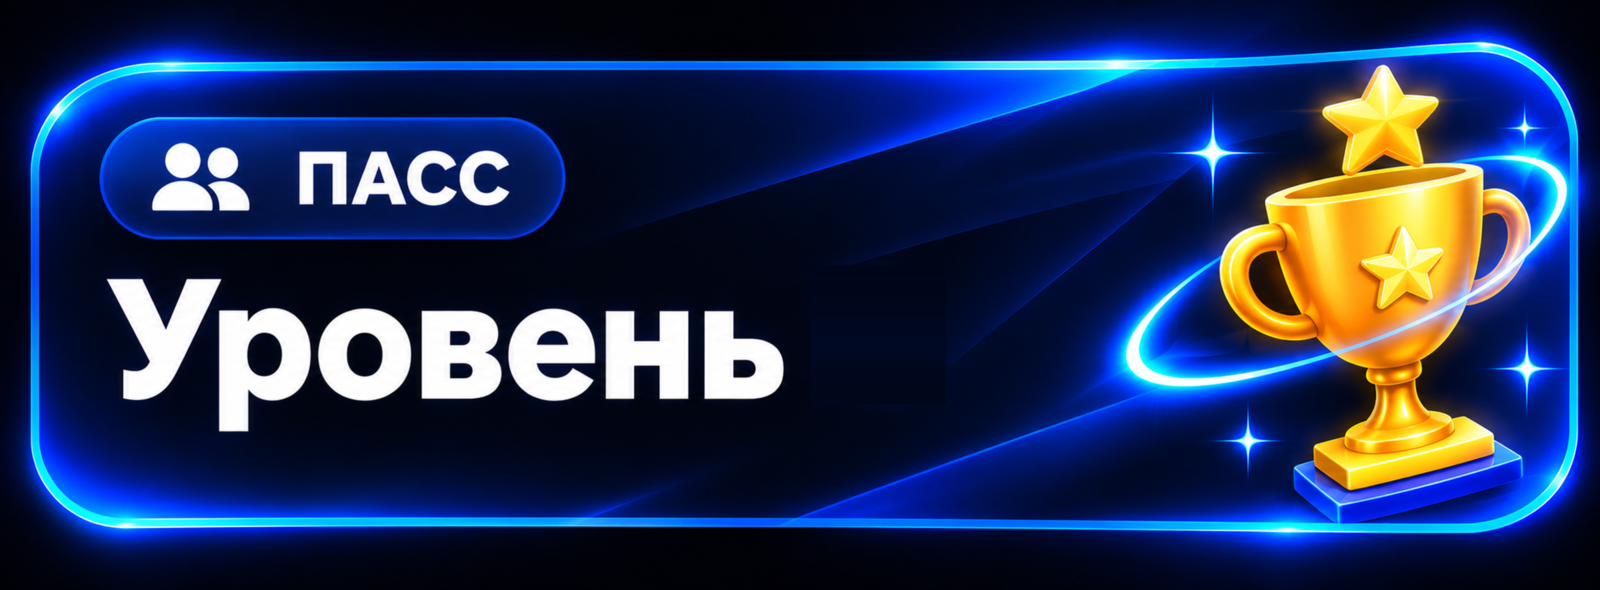
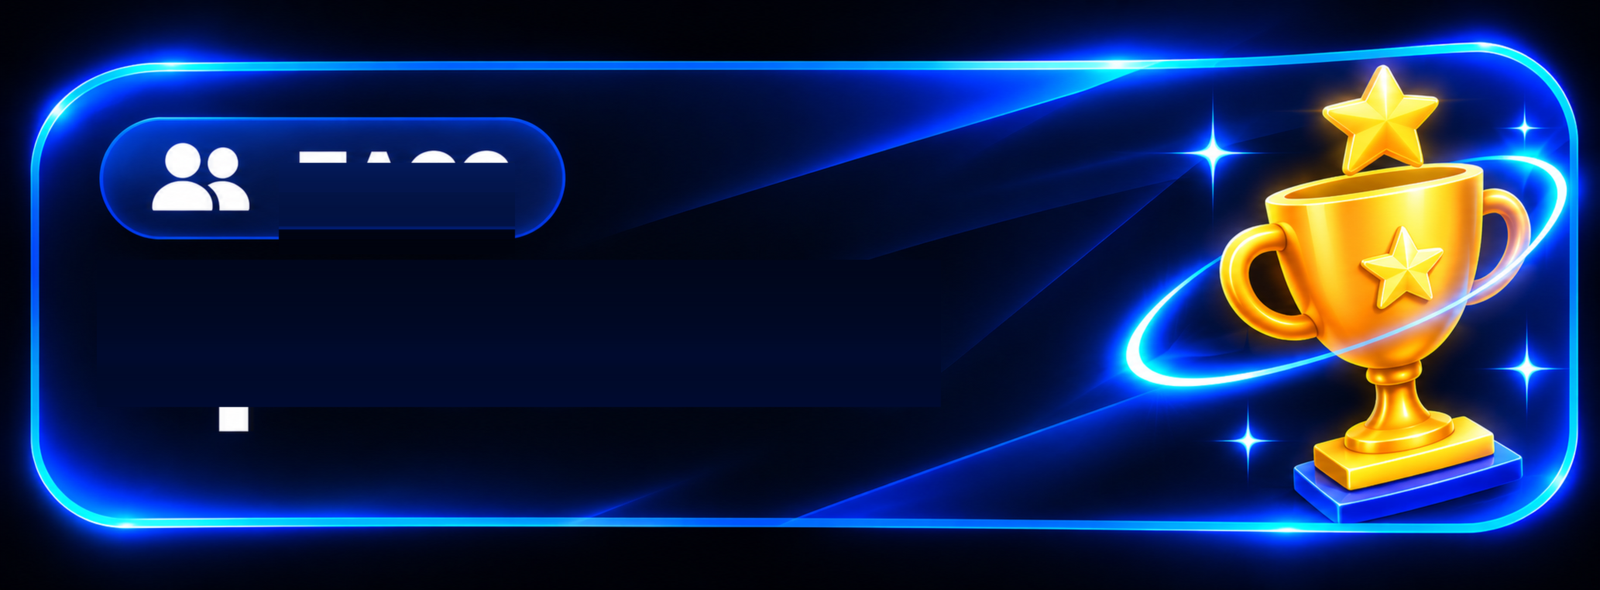
Mini App: live level text on neon PASS panel

Changed region(s): [[0.0625, 0.4576, 0.5312, 0.7017], [0.1562, 0.2746, 0.3125, 0.4271]]

diff --git a/miniapp/index.html b/miniapp/index.html
@@ -5,7 +5,7 @@
   <meta name="viewport" content="width=device-width, initial-scale=1, viewport-fit=cover">
   <meta name="theme-color" content="#0a1020">
   <title>UA. Mini App</title>
-  <link rel="stylesheet" href="style.css?v=20261125w">
+  <link rel="stylesheet" href="style.css?v=20261125x">
   <script src="https://telegram.org/js/telegram-web-app.js"></script>
 </head>
 <body>
@@ -21,7 +21,8 @@
       <div class="pass-panel" id="home-season-art" role="button" tabindex="0" aria-label="ПАСС — открыть уровни">
         <img class="pass-art" src="assets/pass-panel.png" alt="ПАСС">
         <svg class="pass-live" viewBox="0 0 2066 761" aria-hidden="true">
-          <text class="pass-level-num" id="pass-level-num" x="1066" y="518">0</text>
+          <text class="pass-title" x="375" y="297">ПАСС</text>
+          <text class="pass-level" x="139" y="506">Уровень <tspan id="pass-level-num">0</tspan></text>
         </svg>
         <div class="hidden">
           <span id="home-season-name">Игрок · сезон 1</span>
@@ -300,6 +301,6 @@
 </div>
 
 <div id="toast" class="toast"></div>
-<script src="app.js?v=20261125w"></script>
+<script src="app.js?v=20261125x"></script>
 </body>
 </html>

diff --git a/miniapp/style.css b/miniapp/style.css
@@ -116,10 +116,12 @@ body { padding-bottom: calc(74px + env(safe-area-inset-bottom)); }
 .pass-live {
   position: absolute; inset: 0; width: 100%; height: 100%; pointer-events: none;
 }
-.pass-level-num {
-  fill: #ffffff; font-family: Arial, Helvetica, sans-serif; font-weight: 700;
-  font-size: 210px; letter-spacing: -4px;
+.pass-title, .pass-level {
+  fill: #ffffff; font-family: "Segoe UI", Arial, Helvetica, sans-serif;
+  font-weight: 600;
 }
+.pass-title { font-size: 103px; }
+.pass-level { font-size: 220px; }
 
 .menu-grid { display: grid; grid-template-columns: 1fr 1fr; gap: 8px; margin-bottom: 12px; align-items: start; }
 .menu-col { display: flex; flex-direction: column; gap: 8px; }

diff --git a/handlers.py b/handlers.py
@@ -1838,7 +1838,7 @@ async def show_cabinet(message: types.Message, state: FSMContext):
         callback_data="daily_bonus",
         icon_custom_emoji_id="5458870142924526130",
     )
-    miniapp_url = getattr(core, "MINIAPP_URL", "https://uamoneybots.ru/miniapp/?v=20261125w")
+    miniapp_url = getattr(core, "MINIAPP_URL", "https://uamoneybots.ru/miniapp/?v=20261125x")
     if WebAppInfo is not None and user_id in ADMIN_IDS:
         keyboard.button(text="🌐 Mini App", web_app=WebAppInfo(url=miniapp_url))
         keyboard.adjust(2, 1, 1)
@@ -6190,7 +6190,7 @@ async def cmd_miniapp(message: types.Message):
     if WebAppInfo is None:
         await message.answer("Mini App недоступен на этой версии aiogram.")
         return
-    url = getattr(core, "MINIAPP_URL", "https://uamoneybots.ru/miniapp/?v=20261125w")
+    url = getattr(core, "MINIAPP_URL", "https://uamoneybots.ru/miniapp/?v=20261125x")
     keyboard = InlineKeyboardMarkup(
         inline_keyboard=[[
             InlineKeyboardButton(text="🌐 Открыть Mini App", web_app=WebAppInfo(url=url))
